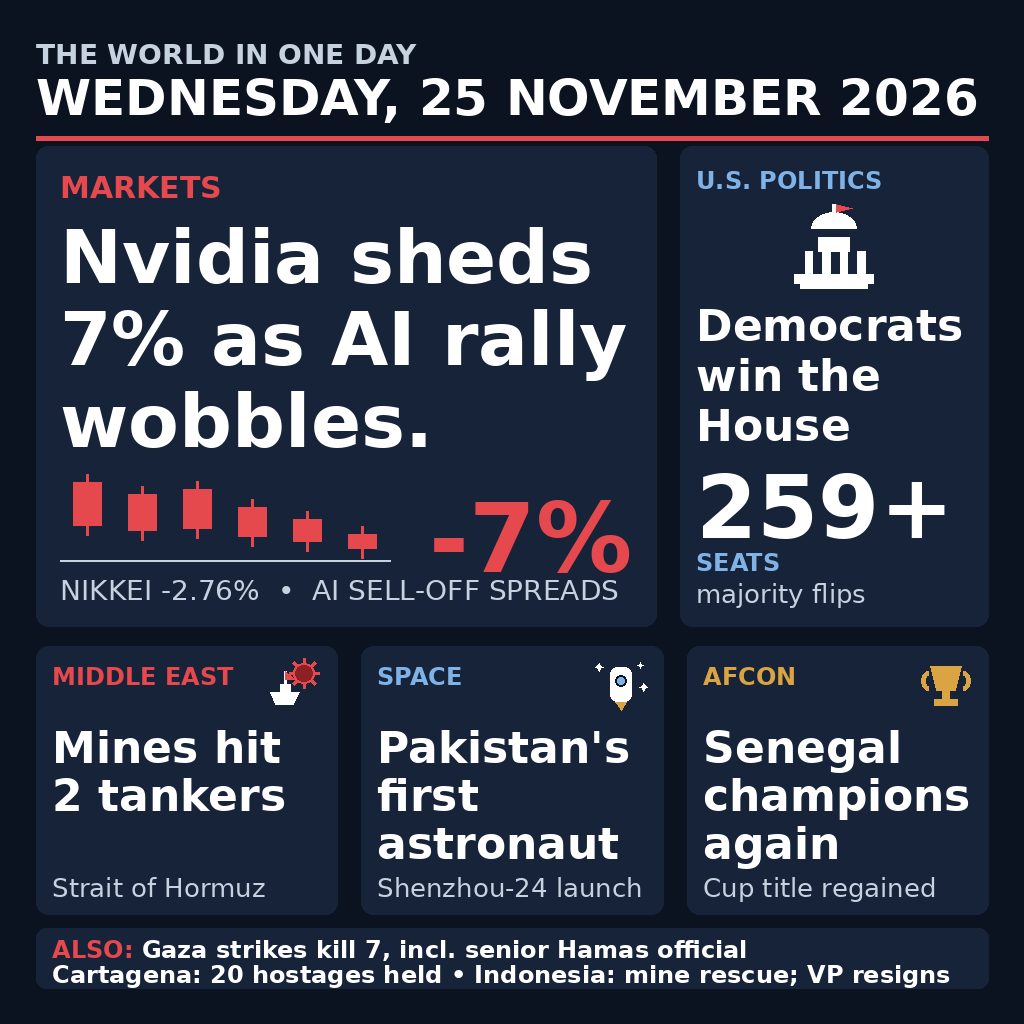
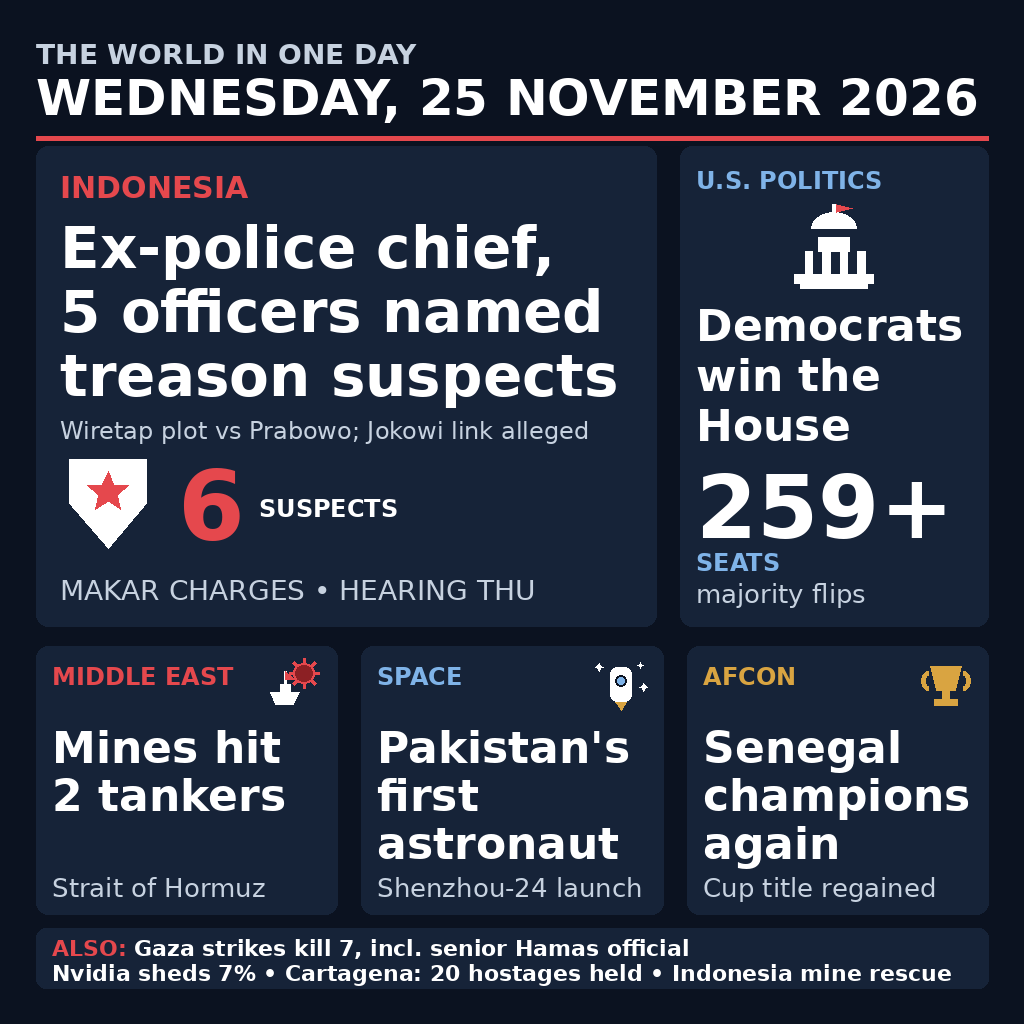
news-image-20261125: lead swapped to LSP treason case, Nvidia to Also strip

Changed region(s): [[0.0625, 0.1562, 0.625, 0.5938], [0.0312, 0.9062, 0.9375, 0.9688]]

diff --git a/render.py b/render.py
@@ -1,7 +1,12 @@
 # render.py — draws news-image-20261125 entry.png (1024x1024) with PIL.
 # Fresh build for the 25 Nov 2026 edition. Design per Gate 1 (MiMo review, build log):
-# dominant Nvidia lead, big House panel, 3-column row, Also strip; 44px floor on
+# dominant lead, big House panel, 3-column row, Also strip; 44px floor on
 # every panel headline; navy base + white type + red / gold / blue accents only.
+# REBUILD 17:17 WIB 25 Nov (user order): lead swapped Nvidia -> LSP treason
+# case (ex-police chief + 5 officers named makar suspects; Jokowi link is
+# ALLEGED only, never fact), Nvidia moved to the Also strip, stale "VP resigns"
+# (12 Nov) dropped. Gate 1 MiMo fixes applied: headline auto-shrinks to fit
+# 3 lines, ticker shortened, subline one line with "alleged" kept.
 # Everything is drawn in code (vector-style panels, big type, simple iconic shapes);
 # no external photos, no network. Deterministic: same bytes every run.
 from PIL import Image, ImageDraw, ImageFont
@@ -107,6 +112,23 @@ def check_lines(lines, fnt, max_w, label):
 
 
 # ---------------------------------------------------------------- icons
+def draw_shield(dr, x, y, s):
+    """Police shield + red star. s = icon box size."""
+    import math
+    # shield body: flat top, straight sides, pointed bottom
+    dr.polygon([(x + s * 0.10, y + s * 0.06), (x + s * 0.90, y + s * 0.06),
+                (x + s * 0.90, y + s * 0.52), (x + s * 0.50, y + s * 0.98),
+                (x + s * 0.10, y + s * 0.52)], fill=INK)
+    # 5-point star, centred
+    cx, cy, r = x + s * 0.50, y + s * 0.40, s * 0.22
+    pts = []
+    for k in range(10):
+        ang = -math.pi / 2 + k * math.pi / 5
+        rr = r if k % 2 == 0 else r * 0.45
+        pts.append((cx + math.cos(ang) * rr, cy + math.sin(ang) * rr))
+    dr.polygon(pts, fill=RED)
+
+
 def draw_candles(dr, x, y, w, h):
     """Six descending red candlesticks (AI sell-off)."""
     vals = [0.92, 0.78, 0.84, 0.62, 0.48, 0.30]  # top of body, fraction of h
@@ -238,35 +260,46 @@ LEAD_X, LEAD_W = M, 620
 HOUSE_X, HOUSE_W = M + LEAD_W + GUT, 308
 assert HOUSE_X + HOUSE_W + M == W
 
-# --- lead panel: Nvidia / AI sell-off
+# --- lead panel: Indonesia / LSP treason suspects (rebuild 17:17 WIB)
 dr.rounded_rectangle([LEAD_X, TOP_Y, LEAD_X + LEAD_W, TOP_Y + TOP_H],
                      radius=12, fill=PANEL)
 lx, ly = LEAD_X + 24, TOP_Y + 24
-dr.text((lx, ly), "MARKETS", font=font(30), fill=RED)
-lead_size, lead_lines = fit("Nvidia sheds 7% as AI rally wobbles.",
+dr.text((lx, ly), "INDONESIA", font=font(30), fill=RED)
+lead_size, lead_lines = fit("Ex-police chief, 5 officers named treason suspects",
                             max_lines=3, max_w=LEAD_W - 48,
-                            start=80, floor=64, balanced=True)
+                            start=74, floor=56, balanced=True)
 lfnt = font(lead_size)
 check_lines(lead_lines, lfnt, LEAD_W - 48, "lead headline")
 hy = ly + 30 + 14
 for ln in lead_lines:
     dr.text((lx, hy), ln, font=lfnt, fill=INK)
     hy += int(lead_size * 1.12)
-# ticker line (pinned to bottom) + chart band above it
-ticker = "NIKKEI -2.76%  \u2022  AI SELL-OFF SPREADS"
+# subline (single line; "alleged" is load-bearing — the Jokowi link is
+# alleged by critics, unproven; police named no other party as ordering it)
+sub = "Wiretap plot vs Prabowo; Jokowi link alleged"
+sfnt = font(24, bold=False)
+check_lines([sub], sfnt, LEAD_W - 48, "lead subline")
+sub_y = hy + 10
+dr.text((lx, sub_y), sub, font=sfnt, fill=MUTED)
+# visual band: shield + big "6" / SUSPECTS
+band_y = sub_y + 24 + 14
+band_h = 100
+assert band_y + band_h <= TOP_Y + TOP_H - 24 - 28 - 10, \
+    "lead visual band overflow: %d" % (band_y + band_h)
+draw_shield(dr, lx, band_y, 96)
+big = font(96)
+six_x = lx + 118
+dr.text((six_x, band_y - 4), "6", font=big, fill=RED)
+sus_x = six_x + text_w("6", big) + 14
+dr.text((sus_x, band_y + 40), "SUSPECTS", font=font(24), fill=INK)
+# ticker line (pinned to bottom)
+ticker = "MAKAR CHARGES \u2022 HEARING THU"
 tfnt = font(28, bold=False)
 check_lines([ticker], tfnt, LEAD_W - 48, "lead ticker")
 ticker_y = TOP_Y + TOP_H - 24 - 28
 dr.text((lx, ticker_y), ticker, font=tfnt, fill=MUTED)
-chart_y0, chart_y1 = hy + 16, ticker_y - 14
-chart_h = chart_y1 - chart_y0
-assert chart_h >= 70, "lead chart band too short: %dpx" % chart_h
-draw_candles(dr, lx, chart_y0, 330, chart_h)
-big = font(96)
-dr.text((LEAD_X + LEAD_W - 24 - text_w("-7%", big), chart_y0 + 6),
-        "-7%", font=big, fill=RED)
 print("lead headline: %dpx, %d lines: %s" % (lead_size, len(lead_lines), lead_lines))
-print("lead chart band: %dpx tall" % chart_h)
+print("lead visual band: y=%d h=%d" % (band_y, band_h))
 
 # --- House panel: Democrats win the House
 dr.rounded_rectangle([HOUSE_X, TOP_Y, HOUSE_X + HOUSE_W, TOP_Y + TOP_H],
@@ -329,15 +362,16 @@ for (px, pw, p) in zip(COL_X, COL_W, PANELS):
         "%s headline collides with subline" % p["kicker"]
     print("%s: %dpx, %d lines: %s" % (p["kicker"], size, len(lines), lines))
 
-# --- Also strip: Gaza + Cartagena + Indonesia
+# --- Also strip: Gaza + Nvidia / Cartagena / Indonesia mine rescue
+# (Nvidia moved here from the lead; stale "VP resigns" (12 Nov) dropped)
 dr.rounded_rectangle([M, ALSO_Y, M + LIVE, ALSO_Y + ALSO_H],
                      radius=10, fill=PANEL)
 ax = M + 16
 also1 = "Gaza strikes kill 7, incl. senior Hamas official"
-also2 = "Cartagena: 20 hostages held \u2022 Indonesia: mine rescue; VP resigns"
-afnt = font(24)
+also2 = "Nvidia sheds 7% \u2022 Cartagena: 20 hostages held \u2022 Indonesia mine rescue"
+afnt = font(22)
 label = "ALSO: "
-dr.text((ax, ALSO_Y + 7), label, font=font(24), fill=RED)
+dr.text((ax, ALSO_Y + 7), label, font=font(22), fill=RED)
 dr.text((ax + text_w(label, afnt), ALSO_Y + 7), also1, font=afnt, fill=INK)
 dr.text((ax, ALSO_Y + 32), also2, font=afnt, fill=INK)
 check_lines([label + also1], afnt, LIVE - 32, "also line 1")

diff --git a/README.md b/README.md
@@ -4,7 +4,7 @@
 [![rank](https://make.fun/badge/news-image-20261125/kriptmwan/news-image-20261125/rank.svg)](https://make.fun/bounty/news-image-20261125/leaderboard?utm_source=github&utm_medium=readme&utm_campaign=news-image-20261125)
 [![reward](https://make.fun/badge/news-image-20261125/kriptmwan/news-image-20261125/reward.svg)](https://make.fun/bounty/news-image-20261125?utm_source=github&utm_medium=readme&utm_campaign=news-image-20261125)
 
-A single 1024×1024 image summing up the world news of Wednesday, 25 November 2026. Nvidia's 7% slide and the spreading AI sell-off lead, with the Democrats winning the U.S. House (259+ seats), mines hitting two tankers in the Strait of Hormuz, Pakistan's first astronaut reaching orbit aboard Shenzhou-24, Senegal regaining the Africa Cup of Nations title, plus Gaza, Cartagena and Indonesia in the foot strip. Everything is drawn in code with `render.py` (PIL) — no external photos.
+A single 1024×1024 image summing up the world news of Wednesday, 25 November 2026. The treason case against former police chief Listyo Sigit Prabowo and five officers — named suspects over the wiretap plot against President Prabowo, with the Jokowi link alleged — leads, with the Democrats winning the U.S. House (259+ seats), mines hitting two tankers in the Strait of Hormuz, Pakistan's first astronaut reaching orbit aboard Shenzhou-24, Senegal regaining the Africa Cup of Nations title, plus Gaza, Cartagena, Nvidia and the Indonesia mine rescue in the foot strip. Everything is drawn in code with `render.py` (PIL) — no external photos.
 
 ## Run it
 
